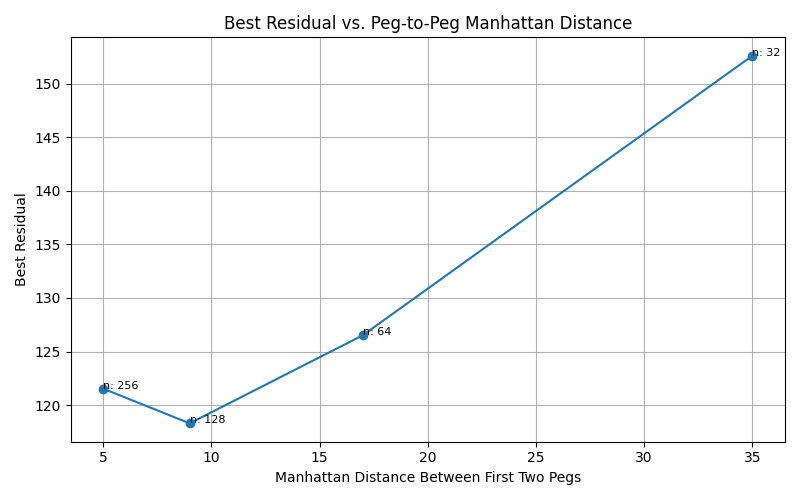
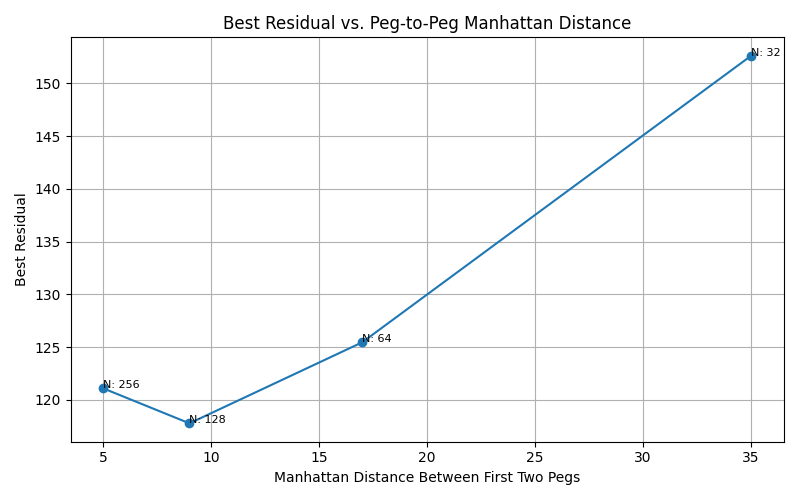
fix: plot labels

diff --git a/stringart/experiments/peg_optimization_analysis.py b/stringart/experiments/peg_optimization_analysis.py
@@ -86,7 +86,7 @@ def compare_varying_pegs_lls():
     plt.plot(manhattan_distances, best_residuals, marker="o")
 
     for i, n in enumerate(number_of_pegs):
-        plt.annotate(f"n: {n}", (manhattan_distances[i], best_residuals[i]), fontsize=8)
+        plt.annotate(f"N: {n}", (manhattan_distances[i], best_residuals[i]), fontsize=8)
 
     plt.xlabel("Manhattan Distance Between First Two Pegs")
     plt.ylabel("Best Residual")
@@ -100,18 +100,23 @@ def compare_varying_pegs_lls():
     num_rows = len(number_of_pegs)
     num_cols = len(block_sizes)
     fig, axs = plt.subplots(num_rows, num_cols, figsize=(4 * num_cols, 4 * num_rows))
+    axs = np.atleast_2d(axs)
     for i in range(num_rows):
         for j in range(num_cols):
-            ax = axs[i, j] if num_rows > 1 else axs[j]
+            ax = axs[i, j]
             ax.imshow(solutions[i][j], cmap="gray")
-            ax.axis("off")
+
+            ax.set_xticks([])
+            ax.set_yticks([])
+            for spine in ax.spines.values():
+                spine.set_visible(False)
 
             if i == 0:
-                ax.set_title(f"Block Size: {block_sizes[j]}")
+                ax.set_title(f"Block Size: {block_sizes[j]}", fontsize=12)
             if j == 0:
-                ax.set_ylabel(f"n: {number_of_pegs[i]}", rotation=90)
+                ax.set_ylabel(f"N: {number_of_pegs[i]}", rotation=0, ha="right", va="center", fontsize=12)
+                ax.yaxis.set_label_coords(-0.2, 0.5)
 
-    plt.suptitle("LLS Varying Pegs and Block Sizes", fontsize=16)
     plt.tight_layout()
     plt.savefig(f"../../outputs/experiments/varying_number_of_pegs/lls_images_by_pegs_and_block_size.png")
     plt.show()
@@ -119,7 +124,7 @@ def compare_varying_pegs_lls():
     # plot residuals
     plt.figure(figsize=(8, 5))
     for i, n in enumerate(number_of_pegs):
-        plt.plot(block_sizes, residuals[i], marker="o", label=f"n: {n}")
+        plt.plot(block_sizes, residuals[i], marker="o", label=f"N: {n}")
 
     plt.xlabel("Block Size")
     plt.xticks(block_sizes)
@@ -128,6 +133,21 @@ def compare_varying_pegs_lls():
     plt.legend()
     plt.grid(True)
     plt.savefig(f"../../outputs/experiments/varying_number_of_pegs/lls_residuals_by_pegs_and_block_size.png")
+    plt.show()
+
+    column_index = 2
+    num_images = len(number_of_pegs)
+    fig, axs = plt.subplots(1, num_images, figsize=(4 * num_images, 4))
+    axs = np.atleast_1d(axs)
+
+    for i in range(num_images):
+        ax = axs[i]
+        ax.imshow(solutions[i][column_index], cmap="gray")
+        ax.axis("off")
+        ax.set_title(f"N: {number_of_pegs[i]}")
+
+    plt.tight_layout()
+    plt.savefig(f"../../outputs/experiments/varying_number_of_pegs/lls_column_{column_index}_as_row.png")
     plt.show()
 
 
@@ -153,7 +173,7 @@ def compare_varying_pegs_ls():
     for i, img in enumerate(solutions):
         axs[i].imshow(img, cmap="gray")
         axs[i].axis("off")
-        axs[i].set_title(f"n: {number_of_pegs[i]}")
+        axs[i].set_title(f"N: {number_of_pegs[i]}")
 
     plt.suptitle("Least Squares for Varying Pegs")
     plt.tight_layout()

diff --git a/stringart/solver.py b/stringart/solver.py
@@ -513,10 +513,10 @@ class Solver:
             residual_history.append(residual)
             logger.info(f"Residual Check — Previous: {past_residual:.6f}, Current: {residual:.6f}")
 
-            # if not residual < past_residual:
-            #     logger.info(f"Residual did not decrease (delta = {residual - past_residual:.6f}). Stopping early.")
-            #     break
-            # past_residual = residual
+            if not residual < past_residual:
+                logger.info(f"Residual did not decrease (delta = {residual - past_residual:.6f}). Stopping early.")
+                break
+            past_residual = residual
 
             # updating weights for regularization
             if regularizer:
